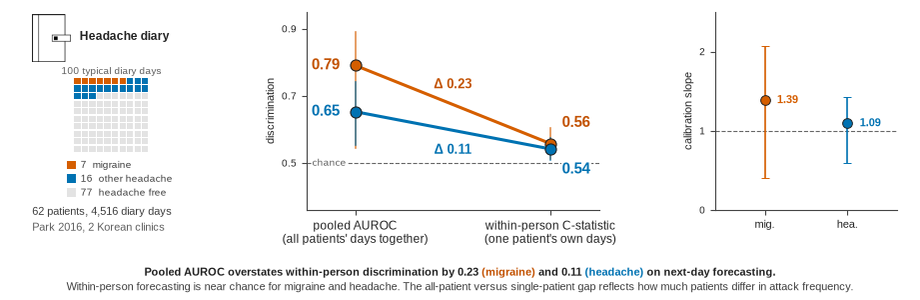
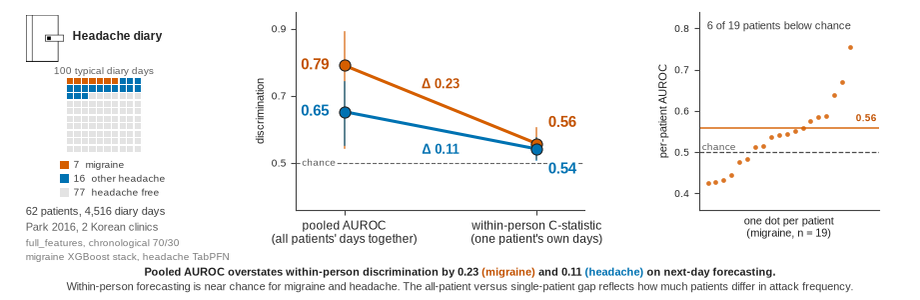
panel

diff --git a/docs/methodAndResults_diagramCreatorScripts/graphical_abstract.py b/docs/methodAndResults_diagramCreatorScripts/graphical_abstract.py
@@ -132,6 +132,11 @@ def _draw_cohort(ax) -> None:
             transform=ax.transAxes, va="center", ha="left")
     ax.text(0.0, -0.090, "Park 2016, 2 Korean clinics", fontsize=7.6, color="#5f5f5f",
             transform=ax.transAxes, va="center", ha="left")
+    # provenance: which cell every number on this figure comes from
+    ax.text(0.0, -0.170, "full_features, chronological 70/30", fontsize=7.0,
+            color="#7a7a7a", transform=ax.transAxes, va="center", ha="left")
+    ax.text(0.0, -0.240, "migraine XGBoost stack, headache TabPFN", fontsize=7.0,
+            color="#7a7a7a", transform=ax.transAxes, va="center", ha="left")
 
 
 def _draw_slopegraph(ax) -> None:
@@ -268,14 +273,23 @@ def _draw_per_patient(ax) -> None:
         x = [i / (len(vals) - 1) for i in range(len(vals))] if len(vals) > 1 else [0.5]
         ax.plot(x, vals, "o", ms=3.4, color=col, alpha=0.85, mec="none", zorder=3)
 
-    ax.set_xlim(-0.06, 1.06)
-    ax.set_ylim(0.24, 0.92)
+    # tie the panel to the hero: the same within-person C the slopegraph lands on
+    if series.get("migraine"):
+        ax.axhline(MIGRAINE["within"], color=mig_col, lw=1.2, alpha=0.85, zorder=2)
+        ax.text(1.04, MIGRAINE["within"] + 0.012, f"{MIGRAINE['within']:.2f}", fontsize=7.5,
+                color=MIG_TEXT, va="bottom", ha="left", fontweight="bold")
+    ax.set_xlim(-0.06, 1.20)
+    ax.set_ylim(0.36, 0.84)
     ax.set_xticks([])
-    ax.set_yticks([0.3, 0.5, 0.7, 0.9])
+    ax.set_yticks([0.4, 0.5, 0.6, 0.7, 0.8])
     ax.tick_params(axis="y", labelsize=7)
     ax.set_ylabel("per-patient AUROC", fontsize=8)
-    ax.set_xlabel("each dot is one patient", fontsize=8)
+    n_mig = len(series.get("migraine", []))
+    below = sum(1 for v in series.get("migraine", []) if v < 0.5)
+    ax.set_xlabel(f"one dot per patient\n(migraine, n = {n_mig})", fontsize=8)
     ax.text(-0.04, 0.5, "chance", fontsize=7.5, color="#5f5f5f", va="bottom", ha="left")
+    ax.text(0.5, 0.805, f"{below} of {n_mig} patients below chance", fontsize=7.8,
+            color="#3d3d3d", ha="center", va="center")
     for spine in ("top", "right"):
         ax.spines[spine].set_visible(False)
 
@@ -324,7 +338,7 @@ def main() -> None:
     ab = AnnotationBbox(hpacker, (0.5, 0.025), xycoords="figure fraction",
                         frameon=False, box_alignment=(0.5, 0))
     fig.add_artist(ab)
-    fig.subplots_adjust(left=0.035, right=0.975, top=0.96, bottom=0.30,
+    fig.subplots_adjust(left=0.028, right=0.955, top=0.96, bottom=0.30,
                         wspace=0.55)
 
     out_png = HERE / "figures" / "graphical_abstract.png"

diff --git a/docs/methodAndResults_diagramCreatorScripts/export_per_patient_auroc.py b/docs/methodAndResults_diagramCreatorScripts/export_per_patient_auroc.py
@@ -34,7 +34,11 @@ OUT = HERE / "figures" / "per_patient_auroc.csv"
 
 # Published within-person C per target (within_person_pooling_comparison CSV and
 # article.tex Table 2). The export is gated on reproducing these.
-PUBLISHED = {"headache": (0.5418, 57), "migraine": (0.5653, 19)}
+# Gate values are per (target, architecture): the graphical abstract's hero shows the
+# migraine XGB stack (within-person C 0.5576, Table 2 rounds to 0.558), NOT the
+# TabPFN-v2.5-finetuned cell (0.5653) that Supplementary Figure S2 panel b uses. The
+# per-patient panel must come from the same cell as the hero or the two disagree.
+PUBLISHED = {"headache": (0.5418, 57), "migraine": (0.5576, 19)}
 TOL = 0.002
 
 
